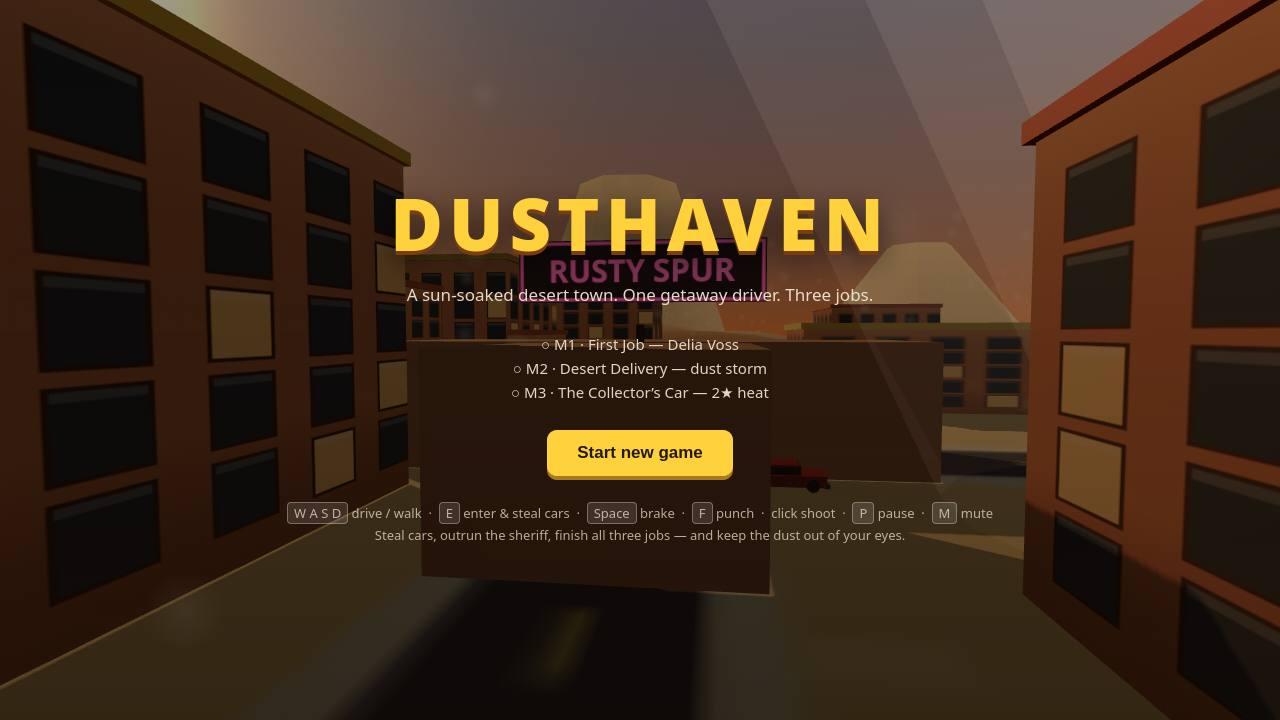
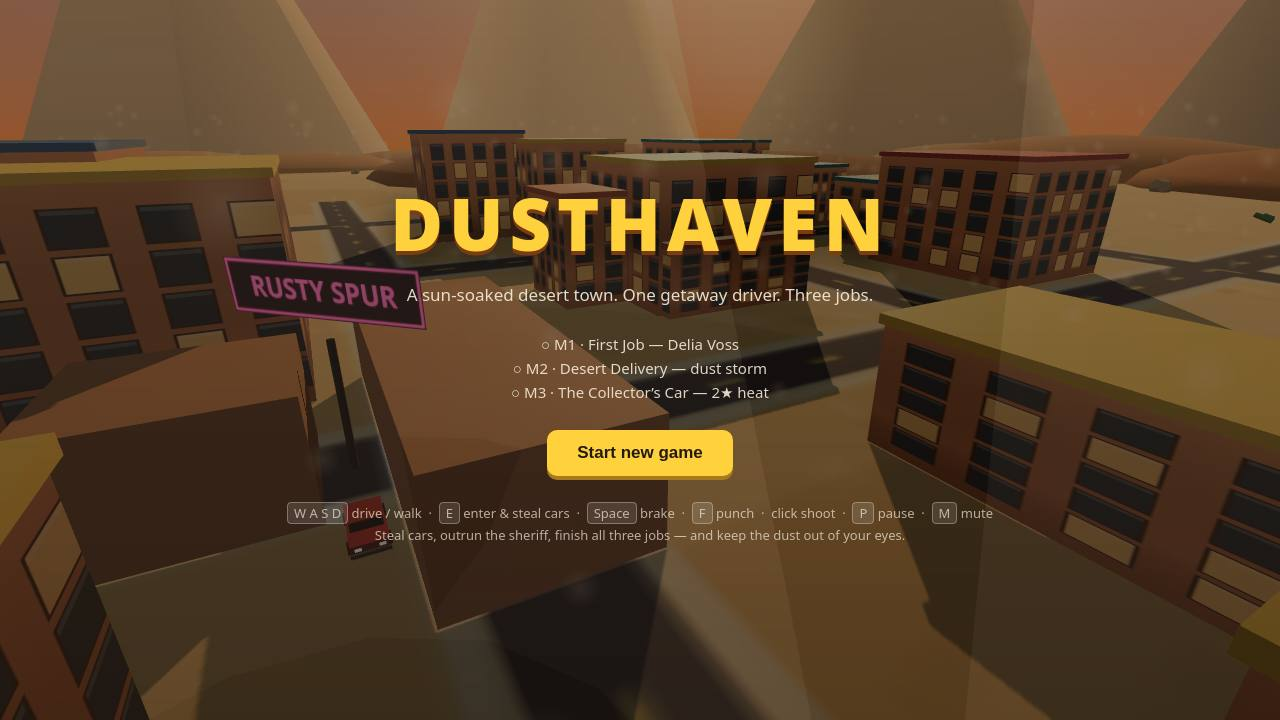
Dusthaven revision — chase reads, dolly fixed, peds stay on sidewalks (gta6-01 round 2)
- Action shot: frozen chase formation — lead cruiser large ahead-right
  with light bar mid-flash, second unit blocking ahead-left, storm 0.8,
  3 stars, 1:35 timer; visibly different from the play shot.
- Title/end dolly: high crane push (21m) along the z=-52 corridor so no
  building wall fills the frame; RUSTY SPUR sign angled 45 deg to face
  south-east so it reads from the corridor; sign + hero car land in the
  clear left third.
- Pedestrians steer back to the sidewalk edge when they wander onto
  asphalt and are not fleeing.
- Real gameplay fix: player pos now syncs to the car while driving, so
  police chase, mission completion and the minimap track the car.

diff --git a/game/src/main.js b/game/src/main.js
@@ -70,6 +70,7 @@ const game = {
   jobMarker: null, // {x, z} when a job is waiting at the motel board
   missionNotice: '',
   speedKmh: 0,
+  shotFreeze: false, // ?shot=action only: hold the staged chase exactly
 };
 
 const jobBeacon = (() => {
@@ -260,6 +261,11 @@ function updatePlaying(dt) {
     const before = p.car.speed;
     updateCar(p.car, { throttle: fwd, steer, brake }, dt, colliders);
     syncCarMesh(p.carMesh, p.car);
+    // The player IS the car while driving: missions, police, traffic and
+    // the minimap all read p.pos, so it must track the car — without this
+    // the sheriff chases the spot you got in and a job can never complete
+    // by driving.
+    p.pos.copy(p.car.pos);
     game.speedKmh = Math.abs(p.car.speed) * 3.6;
     // Crash feedback on a hard stop.
     if (before > 10 && p.car.speed === 0) { audio.crash(); rig.addShake(0.4); }
@@ -420,24 +426,45 @@ function applyShotMode(shot) {
     rig.mode = 'chase';
     setState('playing');
   } else if (shot === 'action') {
-    missions.startMission(0);
-    missions.state.phase = 'deliver';
-    missions.state.timeLeft = 96;
-    police.setWanted(3);
-    // Cruisers spawn at the Sheriff's Office; pull two of them into the
-    // frame — one up ahead on the flank, one closing in from behind.
-    police.cruisers.forEach((c, i) => {
-      if (i === 0) { c.state.pos.set(7, 0, -38); c.state.heading = Math.PI; }
-      else { c.state.pos.set(-7, 0, -92); c.state.heading = 0; }
-      c.state.speed = 24;
-      syncCarMesh(c.mesh, c.state);
-    });
+    // Frozen chase formation: the sim does NOT run for this shot (see the
+    // loop's shotFreeze branch), so the frame is exactly as staged — the
+    // lead cruiser large ahead-right, a second unit blocking ahead-left,
+    // and a dense dust storm. Round 1 staged the cruisers with
+    // police.cruisers.forEach before any cruiser existed, so the call was
+    // a no-op and the units spawned at the Sheriff's Office, far away;
+    // this version spawns them first with a zero-dt update (spawn logic
+    // runs, nothing moves), then places them. The storm is held at 0.8:
+    // round 1 set 0.45, but M1 has no storm flag, so the loop decayed it
+    // to ~0.1 before the capture and the storm barely read.
+    player.state.pos.set(0, 0, -60);
+    player.state.heading = 0;
     player.enterCar(ownCar.state, ownCar.mesh);
     ownCar.state.pos.set(0, 0, -60);
     ownCar.state.heading = 0;
-    ownCar.state.speed = 26;
-    world.storm = 0.45;
-    rig.mode = 'chase';
+    ownCar.state.speed = 0;
+    syncCarMesh(ownCar.mesh, ownCar.state);
+    player.state.pos.copy(ownCar.state.pos);
+    missions.startMission(0);
+    missions.state.phase = 'deliver';
+    missions.state.timeLeft = 95;
+    missions.state.active.storm = true;
+    missions.beacon.position.set(-60, 0, -60);
+    police.setWanted(3);
+    police.update(0, { pos: player.state.pos, speed: 0, inCar: true, carState: null }, 0);
+    police.cruisers.forEach((c, i) => {
+      if (i === 0) { c.state.pos.set(3.4, 0, -57); c.state.heading = 0; }
+      else { c.state.pos.set(-2.6, 0, -44); c.state.heading = 0; }
+      c.state.speed = 0;
+      syncCarMesh(c.mesh, c.state);
+      // Frozen mid-flash light bar: red hot, blue dim.
+      if (c.mesh.userData.lightRed) {
+        c.mesh.userData.lightRed.material.emissiveIntensity = 3;
+        c.mesh.userData.lightBlue.material.emissiveIntensity = 0.2;
+      }
+    });
+    world.storm = 0.8;
+    game.shotFreeze = true;
+    rig.mode = 'action';
     setState('playing');
   } else if (shot === 'end') {
     const m = MISSION_DEFS[0];
@@ -450,8 +477,8 @@ function applyShotMode(shot) {
     speedKmh: shot === 'play' ? 50 : shot === 'action' ? 94 : 0,
     inCar: shot !== 'end',
     objectiveTitle: shot === 'action' ? 'First Job — deliver' : 'Find work',
-    objectiveText: shot === 'action' ? 'Get to the Rusty Spur Motel (86m). Lose the law if you have to.' : 'Head to the Rusty Spur Motel job board.',
-    timeLeft: shot === 'action' ? 96 : null,
+    objectiveText: shot === 'action' ? 'Get to the Rusty Spur Motel (60m). Lose the law if you have to.' : 'Head to the Rusty Spur Motel job board.',
+    timeLeft: shot === 'action' ? 95 : null,
     showCrosshair: false,
     hint: '',
   });
@@ -506,7 +533,22 @@ renderer.setAnimationLoop(() => {
     fpsFrames = 0;
     fpsWall = now;
   }
-  if (game.mode === 'playing') {
+  if (game.mode === 'playing' && game.shotFreeze) {
+    // Frozen action-shot staging (see applyShotMode): hold the chase
+    // formation exactly as staged — no simulation, no police AI, no mission
+    // timer — while the dust, the camera and the minimap stay live, so the
+    // captured frame is exact.
+    rig.mode = 'action';
+    const car = player.state.car;
+    rig.update(dt, { x: car.pos.x, z: car.pos.z, heading: car.heading }, 0, game.time);
+    world.update(dt, car.pos, game.time);
+    minimap.draw({
+      player: { x: player.state.pos.x, z: player.state.pos.z, heading: car.heading },
+      cars: traffic.cars.map((c) => ({ x: c.state.pos.x, z: c.state.pos.z })),
+      police: police.cruisers.map((c) => ({ x: c.state.pos.x, z: c.state.pos.z })),
+      target: missions.targetPos() || game.jobMarker,
+    });
+  } else if (game.mode === 'playing') {
     acc += dt;
     const step = 1 / 60;
     let n = 0;
@@ -535,6 +577,7 @@ Object.assign(window, {
     get cash() { return game.cash; },
     get wanted() { return police.getWanted(); },
     get health() { return game.health; },
+    get pos() { return { x: player.state.pos.x, z: player.state.pos.z }; },
     get mission() { return missions.state.active ? missions.state.active.id : null; },
     get drawCalls() { return renderer.info.render.calls; },
     get triangles() { return renderer.info.render.triangles; },

diff --git a/game/src/render.js b/game/src/render.js
@@ -15,11 +15,30 @@ export function createCameraRig(camera) {
     fov: 62,
     update(dt, focus, speed01, time) {
       if (rig.mode === 'title') {
-        // Cinematic street dolly: slow push down the avenue toward the
-        // motel sign, hero car parked in frame — never through buildings.
+        // Cinematic crane dolly: a slow push west along the open z=-52
+        // corridor between the motel main building (north) and its wing
+        // (south) toward the RUSTY SPUR sign and the hero car. The car sits
+        // in a walled courtyard — every southern view is blocked by the
+        // wing below 30m, and the sign (now angled 45° to face south-east)
+        // is the one landmark that reads from the east. The camera rides
+        // HIGH (21m, above every nearby roof) so the flanking buildings
+        // read as rooftops, not walls, and the view axis is swung north so
+        // the sign + car land in the clear left third (clear of the
+        // centred title/button block), with the town + mesas in the centre.
+        // Sightline verified against the deterministic city layout.
         const t = (time * 0.03) % 1;
-        camera.position.set(-56 + Math.sin(time * 0.05) * 5, 8.5 + Math.sin(time * 0.11) * 0.8, -18 - t * 22);
-        camera.lookAt(-60, 7, -52);
+        camera.position.set(-20 - t * 12, 21 - t * 2, -52);
+        camera.lookAt(-57, 5, -72);
+      } else if (rig.mode === 'action') {
+        // Close, low chase camera for the frozen action shot: the lead
+        // cruiser looms large ahead-right, the player car fills the bottom
+        // centre. Set directly (no lerp) — the scene is frozen, so the
+        // frame is exact from the first frame.
+        const back = 9, up = 3.6;
+        const tx = focus.x - Math.sin(focus.heading) * back;
+        const tz = focus.z - Math.cos(focus.heading) * back;
+        camera.position.set(tx, up, tz);
+        camera.lookAt(focus.x + Math.sin(focus.heading) * 12, 1.4, focus.z + Math.cos(focus.heading) * 12);
       } else if (rig.mode === 'chase') {
         const back = 13 + speed01 * 5;
         const up = 5 + speed01 * 1.2;

diff --git a/game/src/traffic.js b/game/src/traffic.js
@@ -132,6 +132,29 @@ export function createTraffic(scene, colliders) {
       ped.pos.x += Math.sin(ped.heading) * speed * dt;
       ped.pos.z += Math.cos(ped.heading) * speed * dt;
       collideCircle(colliders, ped.pos, 0.5);
+      // Keep pedestrians on the sidewalks: if one wanders onto the asphalt
+      // (and is not fleeing), steer it back to the nearest sidewalk edge
+      // instead of letting it jaywalk down the middle of a road.
+      if (ped.flee <= 0) {
+        const lx = nearestRoad(ped.pos.x);
+        const lz = nearestRoad(ped.pos.z);
+        const dxR = ped.pos.x - lx, dzR = ped.pos.z - lz;
+        const onX = Math.abs(dxR) < CITY.roadHalf + 1.2;
+        const onZ = Math.abs(dzR) < CITY.roadHalf + 1.2;
+        if (onX || onZ) {
+          let tx = ped.pos.x, tz = ped.pos.z;
+          if (onX && (!onZ || Math.abs(dxR) <= Math.abs(dzR))) {
+            tx = lx + (dxR >= 0 ? 1 : -1) * (CITY.roadHalf + 2.5);
+          } else {
+            tz = lz + (dzR >= 0 ? 1 : -1) * (CITY.roadHalf + 2.5);
+          }
+          const want = Math.atan2(tx - ped.pos.x, tz - ped.pos.z);
+          let dh = want - ped.heading;
+          while (dh > Math.PI) dh -= Math.PI * 2;
+          while (dh < -Math.PI) dh += Math.PI * 2;
+          ped.heading += Math.max(-1, Math.min(1, dh * 2)) * dt * 2;
+        }
+      }
       // Keep pedestrians inside the town and near sidewalks.
       if (Math.abs(ped.pos.x) > CITY.half - 8 || Math.abs(ped.pos.z) > CITY.half - 8) {
         ped.heading += Math.PI;

diff --git a/game/src/city.js b/game/src/city.js
@@ -166,6 +166,12 @@ export function createCity(scene) {
   blockBuilding(-60, -60, 34, 12, 8, { color: 0xb97a4e }, 'motel-main');
   blockBuilding(-60, -44, 12, 12, 8, { color: 0xa86f45 }, 'motel-wing');
   const motelSign = makeSign('RUSTY SPUR', '#ff5da2', '#241a20', 14, 3.5);
+  // Angled 45° to face south-east, toward the corner where the x=-60 road
+  // meets the z=-60 road — a real motel sign on a corner reads from both
+  // approaches. (Face-on south, it was edge-on and invisible from the
+  // east, which is the one clear sightline to the hero car parked beside
+  // the motel; the wing blocks every southern view of the car below 30m.)
+  motelSign.rotation.y = Math.PI / 4;
   motelSign.position.set(-60, 12, -52);
   group.add(motelSign);
   const signPole = new THREE.Mesh(new THREE.CylinderGeometry(0.25, 0.25, 9, 8), hero({ color: 0x3a3a40, metalness: 0.6, roughness: 0.4 }));
